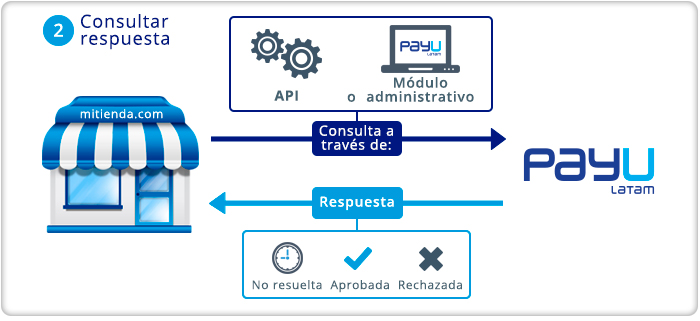
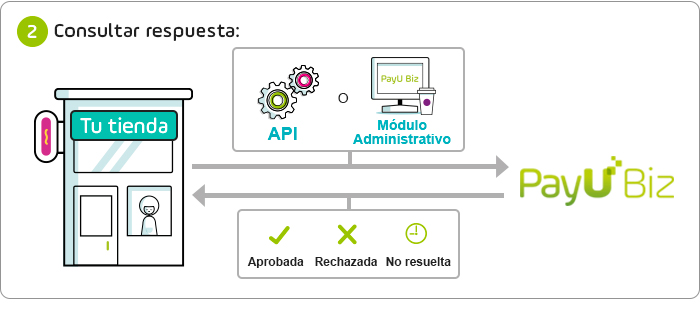
Se actualizaron imágenes de API Pagos y API Reembolsos
- Se actualizaron las imágenes de introducción de API Pagos en los tres
idiomas.
- Se actualizó la imagen de listado de tipos de documentos para pagos
PSE en español.
- Se actualizaron las imágenes de los pagos en efectivo en los tres
idiomas.
- Se actualizaron las imágenes de API Reembolsos (introducción,
solicitud, consulta) en los tres idiomas.

Changed region(s): [[0.0, 0.0, 1.0, 0.9969]]

diff --git a/_pt/api/payments.html b/_pt/api/payments.html
@@ -38,7 +38,7 @@ subcategory: payments
 <div class="paso1"><span class="subtitle-page">Processamento de transações</span></div>
 <span class="grey-text-13">Contamos com diversos métodos para o processamento de transações:</span>
 
-<p align="center"><img src="/images/api/autorizacion-y-captura-pt.jpg" alt="" border="0" /></p>
+<p align="center"><img src="{{ site.baseurl }}/images/api/autorizacionycaptura-pt.png" alt="" border="0" /></p>
 &nbsp;<br>
 &nbsp;<br>
 Todas as operações disponíveis são:
@@ -2693,7 +2693,7 @@ Exemplo resposta:
 <span class="grey-text-13">Meios de pagamento disponíveis: Pago fácil, Rapipago, Cobroexpress, BAPRO e RIPSA</span>
 
 <span class="grey-text-13">Para integrar estas formas de pagamento em dinheiro, você deve direcionar o pagador para o URL que encontrará na resposta do pedido, o pagador poderá ver um recibo de pagamento como este:</span>
-<p align="center"><img src="/images/api/efectivo.jpg" alt="" border="0" />
+<p align="center"><img src="{{ site.baseurl }}/images/api/efectivo-ar.jpg" alt="" border="0" />
 
 <div class="squelch-taas-tab-group squelch-taas-override" data-title="" data-disabled="false" data-collapsible="false" data-active="0" data-event="click">
 <ul>
@@ -2844,7 +2844,7 @@ Exemplo resposta:
 <span class="grey-text-13">Integração da forma de pagamento “Boleto Bancário”</span>
 
 <span class="grey-text-13">Para integrar estas formas de pagamento em dinheiro, você deve direcionar o pagador para o URL encontrado na resposta do pedido, o pagador poderá visualizar um recibo de pagamento como este:</span>
-<p align="center"><img src="/images/api/efectivo-br.jpg" alt="" border="0" />
+<p align="center"><img src="{{ site.baseurl }}/images/api/efectivo-br.jpg" alt="" border="0" />
 
 <div class="squelch-taas-tab-group squelch-taas-override" data-title="" data-disabled="false" data-collapsible="false" data-active="0" data-event="click">
 <ul>
@@ -3016,7 +3016,7 @@ Exemplo resposta:
 <span class="grey-text-13">Integração dos meios de pagamento Baloto, Efecty.</span>
 
 <span class="grey-text-13">Você deve direcionar o pagador para o URL encontrado na resposta do pedido, o pagador poderá ver um recibo de pagamento como este onde você encontrará o logo da forma de pagamento escolhida, Baloto ou Efecty:</span>
-<p align="center"><img src="/images/api/efectivo-co.jpg" alt="" border="0" />
+<p align="center"><img src="{{ site.baseurl }}/images/api/efectivo-co.jpg" alt="" border="0" />
 
 <div class="squelch-taas-tab-group squelch-taas-override" data-title="" data-disabled="false" data-collapsible="false" data-active="0" data-event="click">
 <ul>
@@ -3165,7 +3165,7 @@ Exemplo resposta:
 <span class="grey-text-13">Integração dos meios de pagamento "Bancolombia" e "Banco de Bogotá".<br>
 
 Você deve direcionar o pagador para o URL encontrado na resposta do pedido, o pagador poderá ver um recibo de pagamento como este onde você encontrará o logo da forma de pagamento escolhida, "Bancolombia" e "Banco de Bogotá":</span>
-<p align="center"><img src="/images/api/efectivo-bancolombia.png" alt="" border="0" />
+<p align="center"><img src="{{ site.baseurl }}/images/api/efectivo-bancolombia.png" alt="" border="0" />
 
 <div class="squelch-taas-tab-group squelch-taas-override" data-title="" data-disabled="false" data-collapsible="false" data-active="0" data-event="click">
 <ul>
@@ -3356,7 +3356,7 @@ Exemplo resposta:
 <span class="grey-text-13">Integração dos meios de pagamento o OXXO, BANCOMER, IXE, SCOTIABANK, SANTANDER e 7ELEVEN</span>
 
 <span class="grey-text-13">Você deve direcionar o pagador para o URL encontrado na resposta do pedido, o pagador poderá visualizar um recibo de pagamento como este:</span>
-<p align="center"><img src="/images/api/efectivo-mx.jpg" alt="" border="0" />
+<p align="center"><img src="{{ site.baseurl }}/images/api/efectivo-mx.jpg" alt="" border="0" />
 
 <div class="squelch-taas-tab-group squelch-taas-override" data-title="" data-disabled="false" data-collapsible="false" data-active="0" data-event="click">
 <ul>
@@ -3513,7 +3513,7 @@ Exemplo resposta:
 <span class="grey-text-13">Integração da forma de pagamento BCP</span>
 
 <span class="grey-text-13">Para integrar esta forma de pagamento você deve direcionar o pagador para o URL encontrado na resposta do pedido, o pagador poderá visualizar um recibo de pagamento como este:</span>
-<p align="center"><img src="/images/api/efectivo-pe.jpg" alt="" border="0" />
+<p align="center"><img src="{{ site.baseurl }}/images/api/efectivo-pe.jpg" alt="" border="0" />
 
 <div class="squelch-taas-tab-group squelch-taas-override" data-title="" data-disabled="false" data-collapsible="false" data-active="0" data-event="click">
 <ul>

diff --git a/_es/api/payments.html b/_es/api/payments.html
@@ -40,7 +40,9 @@ subcategory: payments
 <div class="paso1"><span class="subtitle-page">Procesamiento de transacciones</span></div>
 <span class="grey-text-13">Contamos con diferentes métodos para el procesamiento de transacciones:</span>
 
-<img class="aligncenter size-full wp-image-640" src="{{ site.baseurl }}/images/api/autorizacionycaptura-es.png" alt="Autorización y captura" width="600" height="493" />
+<!--<img class="aligncenter size-full wp-image-640" src="{{ site.baseurl }}/images/api/autorizacionycaptura-es.png" alt="Autorización y captura" width="600" height="493" />
+-->
+<p align="center"><img src="{{ site.baseurl }}/images/api/autorizacionycaptura-es.png" alt="" border="0" /></p>
 &nbsp;<br>
 &nbsp;<br>
 Todas las operaciones disponibles son:
@@ -2704,7 +2706,7 @@ Ejemplo respuesta:
 <span class="grey-text-13">Franquicias disponibles: Pago fácil, Rapipago, Cobroexpress, BAPRO y RIPSA</span>
 
 <span class="grey-text-13">Para integrar estos medios de pago en efectivo, debes dirigir al pagador a la URL que encontrarás en la respuesta de la petición, el pagador podrá ver un recibo de pago como este:</span>
-<p align="center"><img src="/images/api/efectivo.jpg" alt="" border="0" />
+<p align="center"><img src="{{ site.baseurl }}/images/api/efectivo-ar.jpg" alt="" border="0" />
 
 <div class="squelch-taas-tab-group squelch-taas-override" data-title="" data-disabled="false" data-collapsible="false" data-active="0" data-event="click">
 <ul>
@@ -2855,7 +2857,7 @@ Ejemplo respuesta:
 <span class="grey-text-13">Integración del medio de pago "Boleto Bancario"</span>
 
 <span class="grey-text-13">Para integrar estos medios de pago en efectivo, debes dirigir al pagador a la URL que encontrarás en la respuesta de la petición, el pagador podrá ver un recibo de pago como este:</span>
-<p align="center"><img src="/images/api/efectivo-br.jpg" alt="" border="0" />
+<p align="center"><img src="{{ site.baseurl }}/images/api/efectivo-br.jpg" alt="" border="0" />
 
 <div class="squelch-taas-tab-group squelch-taas-override" data-title="" data-disabled="false" data-collapsible="false" data-active="0" data-event="click">
 <ul>
@@ -3027,7 +3029,7 @@ Ejemplo respuesta:
 <span class="grey-text-13">Integración de los medios de pago Baloto y Efecty</span>
 
 <span class="grey-text-13">Debes dirigir al pagador a la URL que encontrarás en la respuesta de la petición, el pagador podrá ver un recibo de pago como este en donde encontrará el logo del medio de pago elegido, Baloto o Efecty:</span>
-<p align="center"><img src="/images/api/efectivo-co.jpg" alt="" border="0" />
+<p align="center"><img src="{{ site.baseurl }}/images/api/efectivo-co.jpg" alt="" border="0" />
 
 <div class="squelch-taas-tab-group squelch-taas-override" data-title="" data-disabled="false" data-collapsible="false" data-active="0" data-event="click">
 <ul>
@@ -3176,7 +3178,7 @@ Ejemplo respuesta:
 <span class="grey-text-13">Integración de los medios de pago OXXO, BANCOMER, IXE, SCOTIABANK, SANTANDER y 7ELEVEN</span>
 
 <span class="grey-text-13">Debes dirigir al pagador a la URL que encontrarás en la respuesta de la petición, el pagador podrá ver un recibo de pago como este:</span>
-<p align="center"><img src="/images/api/efectivo-mx.jpg" alt="" border="0" />
+<p align="center"><img src="{{ site.baseurl }}/images/api/efectivo-mx.jpg" alt="" border="0" />
 
 <div class="squelch-taas-tab-group squelch-taas-override" data-title="" data-disabled="false" data-collapsible="false" data-active="0" data-event="click">
 <ul>
@@ -3333,7 +3335,7 @@ Ejemplo respuesta:
 <span class="grey-text-13">Integración del medio de pago BCP</span>
 
 <span class="grey-text-13">Para integrar este medio de pago debes dirigir al pagador a la URL que encontrarás en la respuesta de la petición, el pagador podrá ver un recibo de pago como este:</span>
-<p align="center"><img src="/images/api/efectivo-pe.jpg" alt="" border="0" />
+<p align="center"><img src="{{ site.baseurl }}/images/api/efectivo-pe.jpg" alt="" border="0" />
 
 <div class="squelch-taas-tab-group squelch-taas-override" data-title="" data-disabled="false" data-collapsible="false" data-active="0" data-event="click">
 <ul>
@@ -3784,7 +3786,7 @@ Ejemplo respuesta:
 </table>
 </div>
 &nbsp;
-<p align="center"><img src="/images/api/pse-3-es.jpg" alt="" border="0" /></p>
+<p align="center"><img src="{{ site.baseurl }}/images/api/pse3-es.jpg" alt="" border="0" /></p>
 
 <span class="grey-text-13"><b>5</b>. Por último, se debe capturar el número de identificación del pagador y enviarlo en el parámetro PSE_REFERENCE3 de la petición</span>
 <br/><br/>

diff --git a/_en/api/payments.html b/_en/api/payments.html
@@ -40,7 +40,7 @@ subcategory: payments
 <span class="grey-text-13">We have different methods of transaction processing:</span>
 
 
-<p align="center"><img src="/images/api/autorizacion-y-captura-en.jpg" alt="" border="0" /></p>
+<p align="center"><img src="{{ site.baseurl }}/images/api/autorizacionycaptura-en.png" alt="" border="0" /></p>
 &nbsp;<br>
 &nbsp;<br>
 All available operations are:
@@ -2694,7 +2694,7 @@ Response example:
 <span class="grey-text-13">Available franchises: Pago fácil, Rapipago, Cobroexpress, BAPRO and RIPSA</span>
 
 <span class="grey-text-13">To integrate these cash payment methods, you must direct the payer to the URL you'll find in the answer to the request, the payer may see a payment receipt like this:</span>
-<p align="center"><img src="/images/api/efectivo.jpg" alt="" border="0" />
+<p align="center"><img src="{{ site.baseurl }}/images/api/efectivo-ar.jpg" alt="" border="0" />
 
 <div class="squelch-taas-tab-group squelch-taas-override" data-title="" data-disabled="false" data-collapsible="false" data-active="0" data-event="click">
 <ul>
@@ -2845,7 +2845,7 @@ Response example:
 <span class="grey-text-13">Integration of the "Boleto Bancario" payment method</span>
 
 <span class="grey-text-13">To integrate these cash payment methods, you must direct the payer to the URL you'll find the answer to the request, the payer may see a receipt like this:</span>
-<p align="center"><img src="/images/api/efectivo-br.jpg" alt="" border="0" />
+<p align="center"><img src="{{ site.baseurl }}/images/api/efectivo-br.jpg" alt="" border="0" />
 
 <div class="squelch-taas-tab-group squelch-taas-override" data-title="" data-disabled="false" data-collapsible="false" data-active="0" data-event="click">
 <ul>
@@ -3017,7 +3017,7 @@ Response example:
 <span class="grey-text-13">Cash Payments: Integration of "Baloto" and "Efecty" payment methods.</span>
 
 <span class="grey-text-13">You must direct the payer to the URL that you'll find in the answer to the request, the payer may see a receipt as this, where he will find the logo of the chosen payment method, Baloto or Efecty:</span>
-<p align="center"><img src="/images/api/efectivo-co.jpg" alt="" border="0" />
+<p align="center"><img src="{{ site.baseurl }}/images/api/efectivo-co.jpg" alt="" border="0" />
 
 <div class="squelch-taas-tab-group squelch-taas-override" data-title="" data-disabled="false" data-collapsible="false" data-active="0" data-event="click">
 <ul>
@@ -3168,7 +3168,7 @@ Response example:
 <span class="grey-text-13">Bank payments: Integration of "Bancolombia" y "Banco de Bogotá" payment methods.<br>
 
 You must direct the payer to the URL that you'll find in the answer to the request, the payer may see a receipt as this, where he will find the logo of the chosen payment method, "Bancolombia and Banco de Bogotá":</span>
-<p align="center"><img src="/images/api/efectivo-bancolombia.png" alt="" border="0" />
+<p align="center"><img src="{{ site.baseurl }}/images/api/efectivo-bancolombia.png" alt="" border="0" />
 
 <div class="squelch-taas-tab-group squelch-taas-override" data-title="" data-disabled="false" data-collapsible="false" data-active="0" data-event="click">
 <ul>
@@ -3359,7 +3359,7 @@ Response example:
 <span class="grey-text-13">Integration of the OXXO, BANCOMER, IXE, SCOTIABANK, SANTANDER and 7ELEVEN methods</span>
 
 <span class="grey-text-13">You must direct the payer to the URL that you'll find in the answer to the request, the payer may see a receipt like this:</span>
-<p align="center"><img src="/images/api/efectivo-mx.jpg" alt="" border="0" />
+<p align="center"><img src="{{ site.baseurl }}/images/api/efectivo-mx.jpg" alt="" border="0" />
 
 <div class="squelch-taas-tab-group squelch-taas-override" data-title="" data-disabled="false" data-collapsible="false" data-active="0" data-event="click">
 <ul>
@@ -3516,7 +3516,7 @@ Response example:
 <span class="grey-text-13">Integration of the BCP payment method</span>
 
 <span class="grey-text-13">To integrate these cash payment methods you must direct the payer to the URL that you'll find in the answer to the request, the payer may see a payment receipt like this:</span>
-<p align="center"><img src="/images/api/efectivo-pe.jpg" alt="" border="0" />
+<p align="center"><img src="{{ site.baseurl }}/images/api/efectivo-pe.jpg" alt="" border="0" />
 
 <div class="squelch-taas-tab-group squelch-taas-override" data-title="" data-disabled="false" data-collapsible="false" data-active="0" data-event="click">
 <ul>

diff --git a/_es/api/refunds.html b/_es/api/refunds.html
@@ -28,7 +28,7 @@ subcategory: refunds
 <p>Podrás realizar la solicitud de reembolso empleando el método Refund o Void que se encuentra dispuesto para este fin. Una vez se realiza la solicitud, un agente de servicio al cliente PayU se encargara de validar la información y la justificación de la petición para aprobar la solicitud y realizar el reembolso o declinar la solicitud en caso de que no cumpla los requisitos.
 <br>
 Adicionalmente, podrás consultar el estado de la solicitud de reembolso empleando la API de Consultas disponible para tal fin.</p>
-<p align="center"><img src="{{ site.baseurl }}/images/2014/08/modulo-cancelacion1-es.jpg" alt="Modulo de cancelaciones" width="700" height="464" class="aligncenter size-full wp-image-1178" /></p>
+<p align="center"><img src="{{ site.baseurl }}/images/api/modulo-reembolsos-es.jpg" alt="Modulo de cancelaciones" width="700" height="464" class="aligncenter size-full wp-image-1178" /></p>
 <div class="info-icon">Tener en cuenta:</div>
 <div class="list-arrow"><ul>
 <li>Solo se podrán realizar solicitudes de reembolso para transacciones con <span class="highlight-txt2">Autorización y captura</span> con estado <span class="highlight-txt2">Capturada</span> que hayan sido realizadas con tarjeta de crédito. En caso de que la solicitud haga referencia a un medio de pago diferente (medios de pago en efectivo, transferencia bancaria), la solicitud será Declinada por el agente de servicio al cliente PayU.</li>
@@ -46,7 +46,7 @@ Adicionalmente, podrás consultar el estado de la solicitud de reembolso emplean
 &nbsp;<br>
 <span class="subtitle-page">Solicitar reembolso</span>
 &nbsp;<br>
-<img src="{{ site.baseurl }}/images/2014/08/solicitar-cancelacion-es1.jpg" alt="Solicitar cancelacion" width="700" height="300" class="aligncenter size-full wp-image-1190" />
+<p align="center"><img src="{{ site.baseurl }}/images/api/solicitar-reembolso-es.jpg" alt="Solicitar cancelacion" width="700" height="300" class="aligncenter size-full wp-image-1190" /></p>
 <p>Si una transacción se encuentra con estado <span class="highlight-txt2">“Capturada”</span>, podrás emplear el método Refund para realizar la solicitud de reembolso.</p>
 Debes enviar de manera obligatoria los siguientes parámetros:
 <div class="list-arrow"><ul><li><span class="highlight-txt2">1.</span> Id de la orden.</li>
@@ -150,7 +150,7 @@ Ejemplo respuesta:
 &nbsp;<br>
 <span class="subtitle-page">Consultar respuesta</span>
 &nbsp;<br>
-<img src="{{ site.baseurl }}/images/2014/08/consultar-respuesta-es.jpg" alt="Consultar respuesta" width="700" height="321" class="aligncenter size-full wp-image-1180" />
+<p align="center"><img src="{{ site.baseurl }}/images/api/consultar-respuesta-es.jpg" alt="Consultar respuesta" width="700" height="321" class="aligncenter size-full wp-image-1180" /></p>
 &nbsp;<br>
 <span class="subtitle-page2">Consultar a través del Módulo Administrativo PayU.</span>
 <p>Para realizar la consulta por medio del módulo administrativo, debes ingresar con su usuario y contraseña, acceder a la pestaña <span class="highlight-txt2">Reportes</span>, acceder en el menú lateral a <span class="highlight-txt2">Órdenes</span>, e ingresar el Id de la Orden que se desea consultar en los filtros de búsqueda.<br>

diff --git a/_pt/api/refunds.html b/_pt/api/refunds.html
@@ -26,7 +26,7 @@ subcategory: refunds
 <p>Você poderá realizar a solicitação de reembolso empregando o método Refund ou Void, que se encontra disponível para este fim. Uma vez realizada a solicitação, um agente de serviço ao cliente PayU se encarregará de validar a informação e a justificativa do pedido para aprovar a solicitação e realizar o reembolso ou rejeitar a solicitação caso não cumpra os requisitos.
 <br>
 Adicionalmente, você poderá consultar o status da solicitação de reembolso empregando API de Consultas disponível para tal fim.</p>
-<p align="center"><img border="0" alt="Modulo Reembolsos" src="/images/modulo-reembolsos-pt.jpg"></p>
+<p align="center"><img border="0" alt="Modulo Reembolsos" src="{{ site.baseurl }}/images/api/modulo-reembolsos-pt.jpg"></p>
 <div class="info-icon">Considerar:</div>
 <div class="list-arrow"><ul>
 <li>Somente poderão ser realizadas solicitações de reembolso para transações com Autorização e captura com status Capturada realizadas com cartão de crédito. Caso a solicitação se refira a uma forma de pagamento diferente (formas de pagamento em dinheiro, transferência bancária), a solicitação será Rejeitada pelo agente de serviço ao cliente PayU.</li>
@@ -44,7 +44,7 @@ Adicionalmente, você poderá consultar o status da solicitação de reembolso e
 &nbsp;<br>
 <span class="subtitle-page">Solicitar reembolso</span>
 &nbsp;<br>
-<p align="center"><img border="0" alt="Solicitar reembolso" src="/images/solicitar-reembolso-pt.jpg"></p>
+<p align="center"><img border="0" alt="Solicitar reembolso" src="{{ site.baseurl }}/images/api/solicitar-reembolso-pt.jpg"></p>
 <p>Se uma transação está com status <span class="highlight-txt2">“Capturada”</span>, você poderá utilizar o método Refund para realizar a solicitação de reembolso.</p>
 Você deve enviar de maneira obrigatória os seguintes parâmetros:
 <div class="list-arrow"><ul><li><span class="highlight-txt2">1.</span> ID da ordem.</li>
@@ -150,7 +150,7 @@ Exemplo resposta:
 &nbsp;<br>
 <span class="subtitle-page">Consultar resposta</span>
 &nbsp;<br>
-<p align="center"><img border="0" alt="Consultar resposta" src="/images/consultar-respuesta-pt.jpg"></p>
+<p align="center"><img border="0" alt="Consultar resposta" src="{{ site.baseurl }}/images/api/consultar-respuesta-pt.jpg"></p>
 &nbsp;<br>
 <span class="subtitle-page2">Consultar por meio do Módulo Administrativo do PayU.</span>
 <p>Para realizar a consulta por meio do módulo administrativo, você deve inserir seu nome de usuário e senha, acessar a aba <span class="highlight-txt2">Relatórios</span>, acessar no menu lateral Ordens, e inserir o ID da Ordem que se deseja consultar nos filtros de busca.<br>

diff --git a/_en/api/refunds.html b/_en/api/refunds.html
@@ -26,7 +26,7 @@ subcategory: refunds
 <p>You can make the refund request using the Refund or Void method which is provided for this purpose. Once the request is made, a customer service agent from PayU takes charge of validating the information and justification of the request to approve the request and to perform the refund or refuse the request if it does not meet the requirements.
 <br>
 Additionally, you can check the status of your refund request using the Query API available for that purpose.</p>
-<p align="center"><img border="0" alt="Modulo Reembolsos" src="/images/modulo-reembolsos-en.jpg"></p>
+<p align="center"><img border="0" alt="Modulo Reembolsos" src="{{ site.baseurl }}/images/api/modulo-reembolsos-en.jpg"></p>
 <div class="info-icon">Consider:</div>
 <div class="list-arrow"><ul>
 <li>Captured state that have been made with a credit card. If the request refers to a different payment means (cash payment means, bank transfer), the application will be declined by PayU´s customer service agent.</li>
@@ -44,7 +44,7 @@ Additionally, you can check the status of your refund request using the Query AP
 &nbsp;<br>
 <span class="subtitle-page">Request refund</span>
 &nbsp;<br>
-<p align="center"><img border="0" alt="Solicitar reembolso" src="/images/solicitar-reembolso-en.jpg"></p>
+<p align="center"><img border="0" alt="Solicitar reembolso" src="{{ site.baseurl }}/images/api/solicitar-reembolso-en.jpg"></p>
 <p>If a transaction is in the <span class="highlight-txt2">“Captured”</span>, state, you can use the Refund method to perform the refund request.</p>
 It is compulsorily that you submit the following parameters:
 <div class="list-arrow"><ul><li><span class="highlight-txt2">1.</span> Order’s ID.</li>
@@ -150,7 +150,7 @@ Response example:
 &nbsp;<br>
 <span class="subtitle-page">Check response</span>
 &nbsp;<br>
-<p align="center"><img border="0" alt="Consultar resposta" src="/images/consultar-respuesta-pt.jpg"></p>
+<p align="center"><img border="0" alt="Consultar resposta" src="{{ site.baseurl }}/images/api/consultar-respuesta-en.jpg"></p>
 &nbsp;<br>
 <span class="subtitle-page2">Browse through PayU’s Administrative Module.</span>
 <p>In order to perform the query using the administrative module, you must enter your username and password to access the <span class="highlight-txt2">Reportes</span> tab, access  <span class="highlight-txt2">Orders</span>, in the lateral menu, and enter the ID of the order to be consulted in the search filters.<br>
